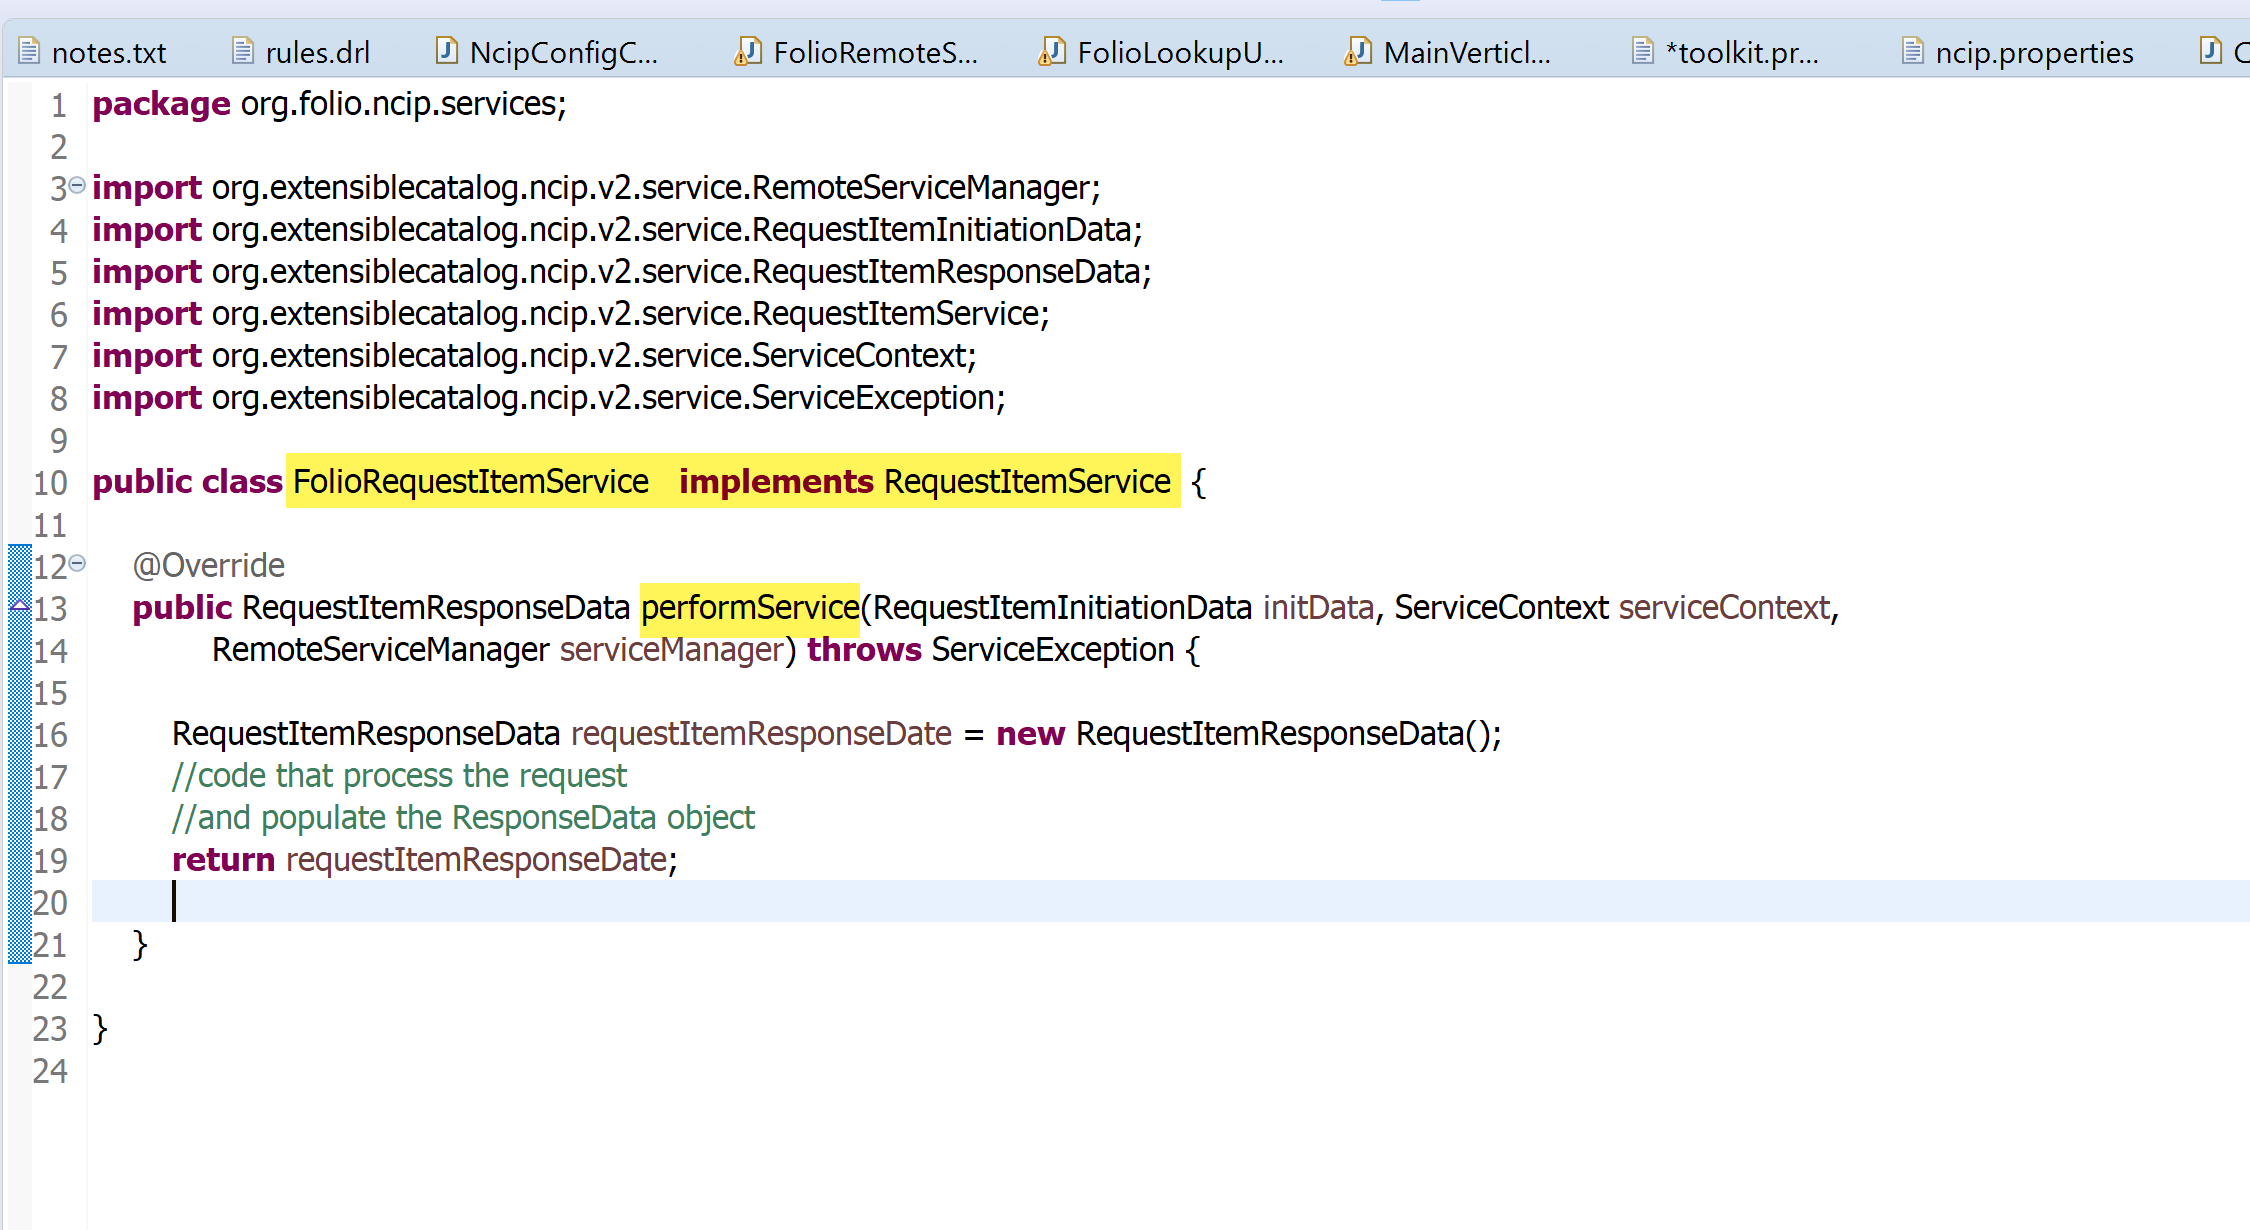
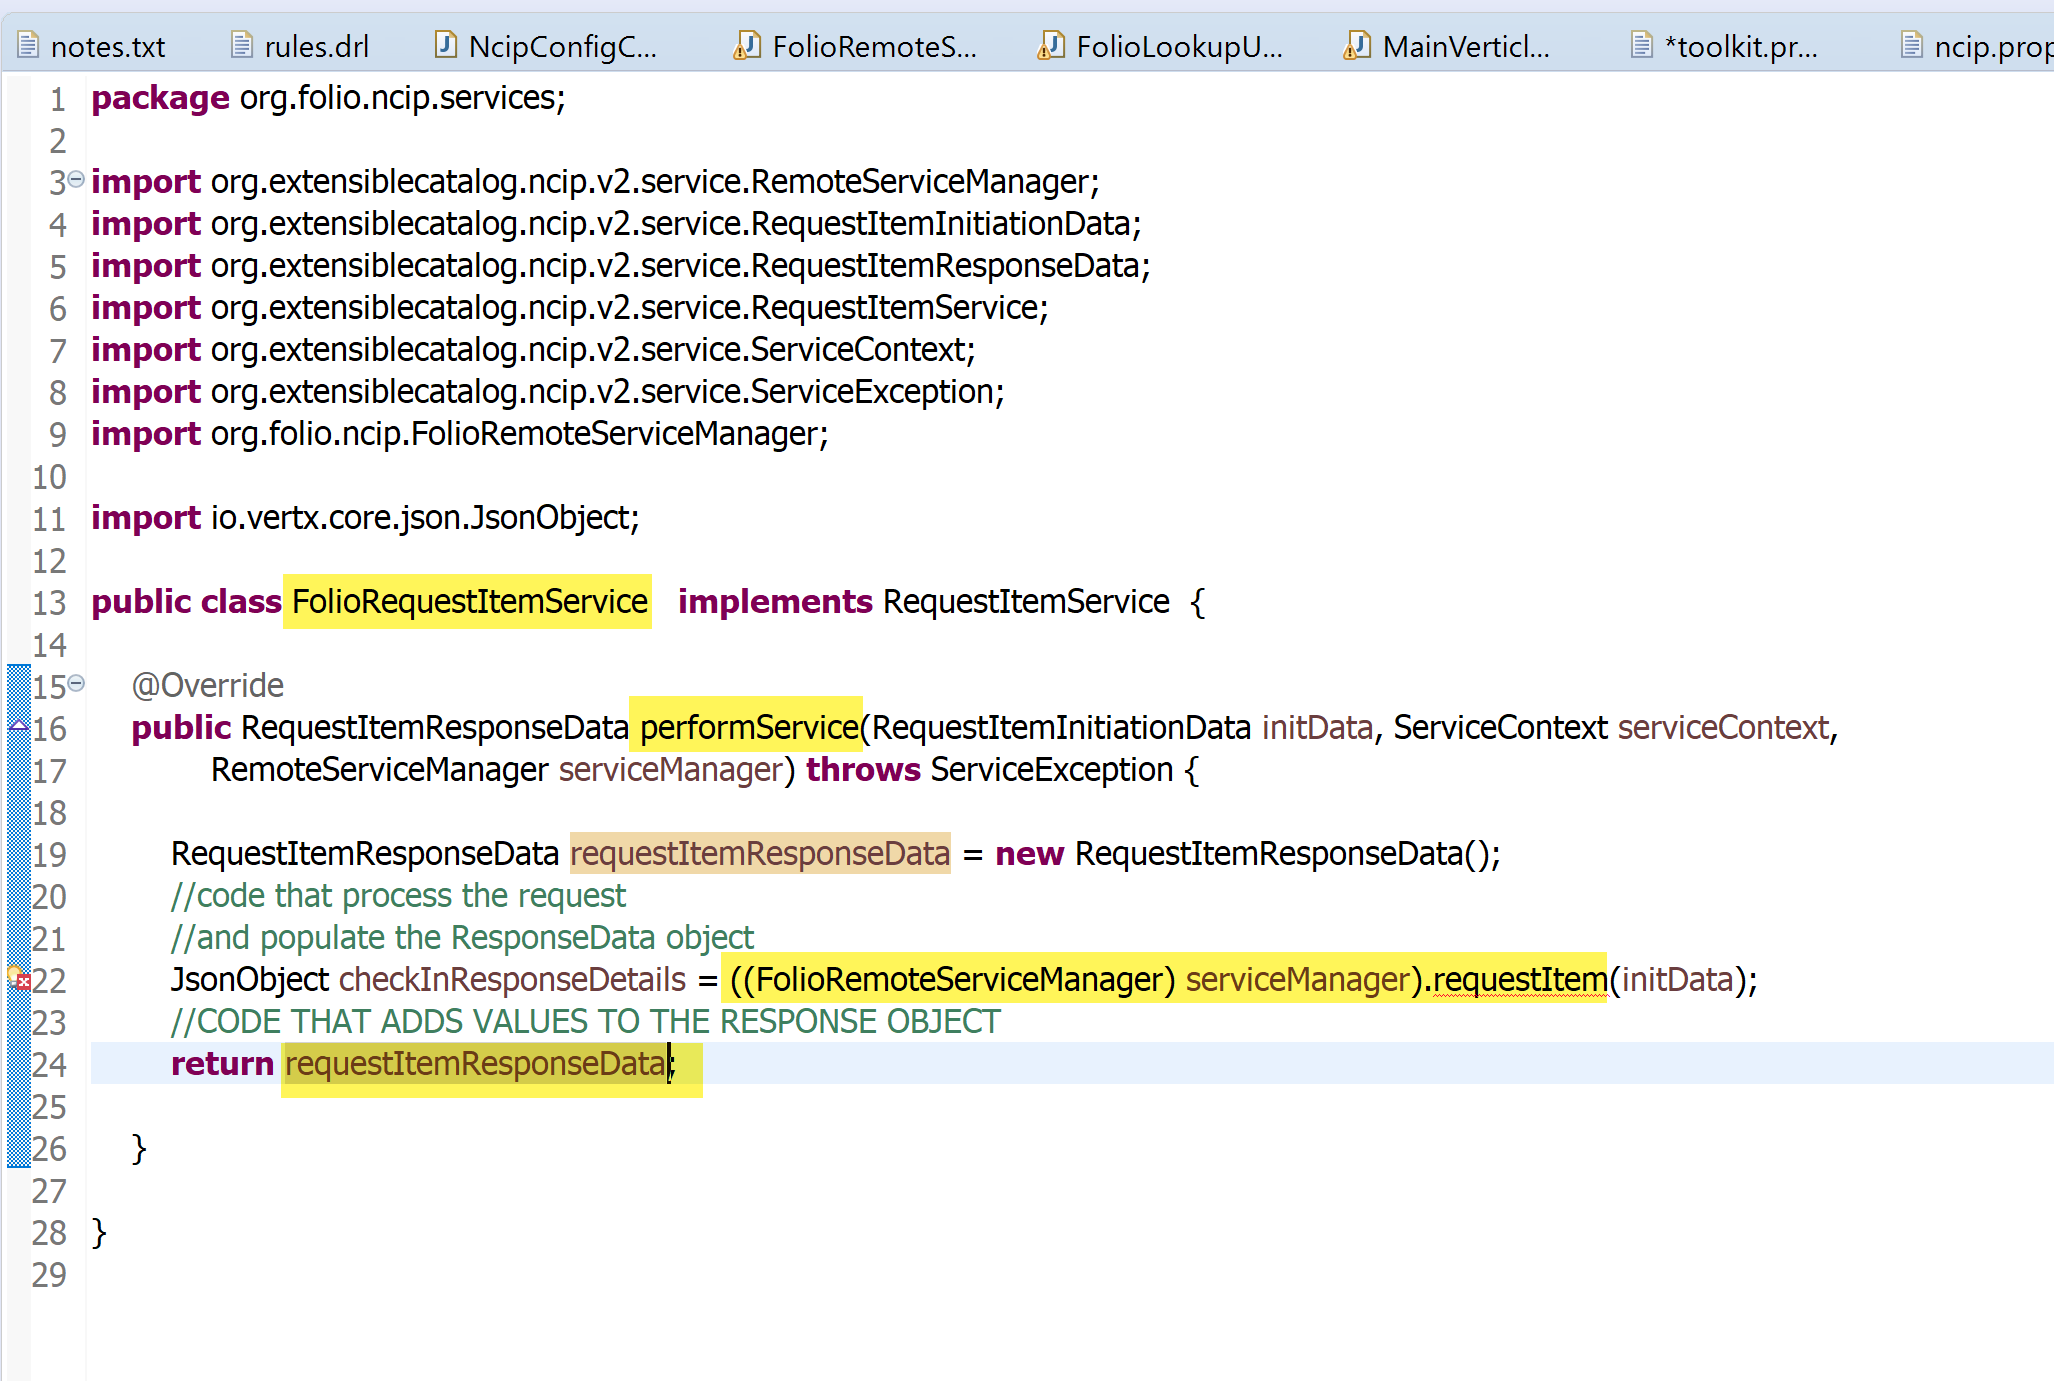
adding documentation

Changed region(s): [[0.0, 0.0, 1.0, 0.9268]]

diff --git a/README.md b/README.md
@@ -201,6 +201,23 @@ When an NCIP request is received, the toolkit looks at the XML in the body of th
 
 ![Illustrates the new FolioRequestItemService class](docs/images/requestItemService.png?raw=true "Illustrates the new FolioRequestItemService class")
 
+The RequestItemInitiationData (in this example) contains all of the values that were contained in the XML of the body of the request. The RequestItemInitiationData object should contains values like 'requestType' and itemIds.
+
+The performService method is responsible for returning the response data object (in this example RequestItemResponseData).  This is the object that will be transformed into the XML that will be included in the response. 
+
+The RemoteServiceManager (FolioRemoteServiceManager) input parameter (for the performService method) contains the NCIP property values (from the ncip.properties file).  The RemoteServiceManager interface has no methods.  The methods written for this class should be whatever is needed for your implementation.  More about this class from the XC documentation:
+ 
+ "The methods that are written for the RemoteServiceManager implementation class are whatever is needed by the implementations of NCIPService (e.g. LookupItemService, RequestItemService, etc.). It’s certainly possible to put all of the functionality required to access the ILS in the implementations of NCIPService, and that might make sense. But what the RemoteServiceManager provides is a shared object for accessing the ILS, in case you need that to maintain state, cache objects..."
+ 
+ In FOLIO's mod-ncip module, the FolioRemoteServiceManager class is the point where the FOLIO APIs (like check out item) are called.  You can continue this pattern for your new service if you think it makes sense.
+
+#### Step 4: Create a method in the FolioRemoteServiceManager class 
+Create a method (or methods) in the FolioRemoteServiceManager class that will take care of the interaction with the FOLIO API.  The FolioRequestItemService (performService method) could then call this method.
+
+You can look at the existing services for examples.  The FolioCheckInItemService calls the FolioRemoteServiceManager 'checkIn' method after some initial validation.  This method passes back the required data for the response.  The FolioCheckInItemService contructs the ResponseData object and returns it.  The toolkit takes care of transforming that into XML.  (see createResponseMessageStream in the FolioNcipHelper class).
+
+![Illustrates the new FolioRemoteServiceManager class](docs/images/remoteServiceManager.png?raw=true "Illustrates FolioRemoteServiceManager class")
+
 #### Additional resources
 [http://catalogablog.blogspot.com/2009/03/extensible-catalog-ncip-toolkit.html](http://catalogablog.blogspot.com/2009/03/extensible-catalog-ncip-toolkit.html)
 
